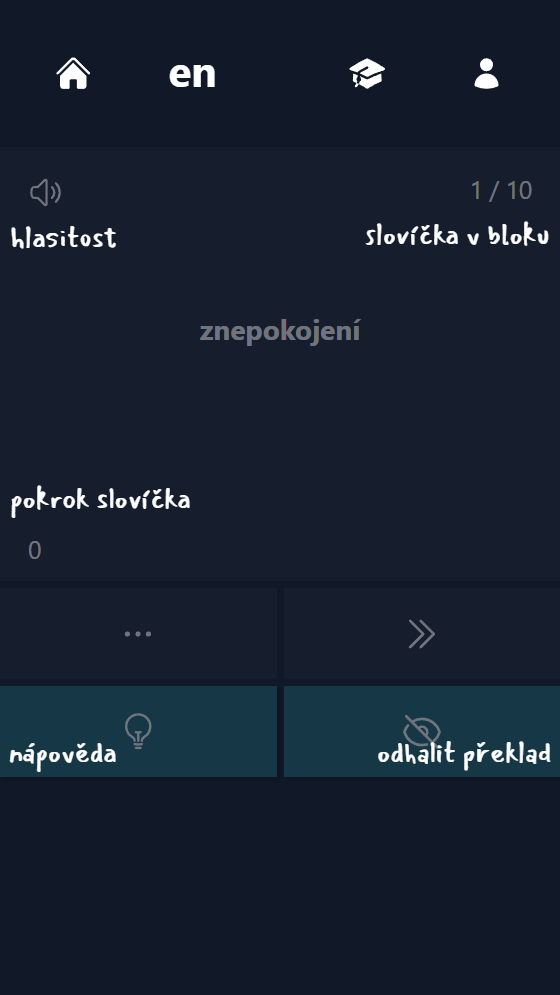
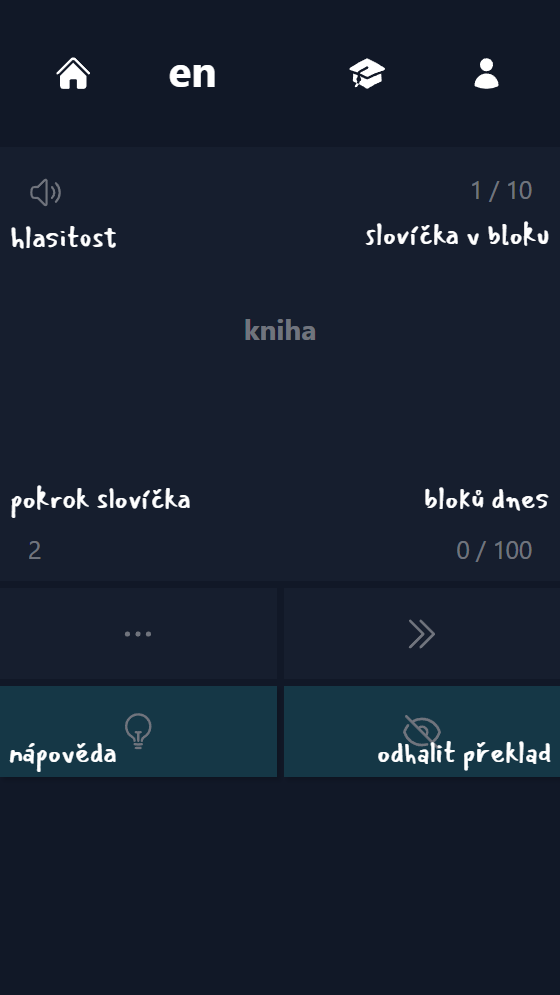
blog update 250719

Changed region(s): [[0.7589, 0.4673, 0.9714, 0.5608], [0.3643, 0.3116, 0.6375, 0.3427], [0.0304, 0.5296, 0.0911, 0.5608]]

diff --git a/my-next-app/src/app/projects/0/page.tsx b/my-next-app/src/app/projects/0/page.tsx
@@ -23,36 +23,12 @@ export default function FlashCardApp() {
           </a>
         </div>
       </Section>
-      <Section title="version v0.1.0">
-        <ul>
-          <h4>Changes</h4>
-          <li>Added multiple languages support (with Spanish vocabulary)</li>
-          <li>Added skip button</li>
-        </ul>
-        <h4>Testing</h4>
-        <p>
-          I have added support for multiple languages for testing purposes.
-          Since I already know English too well, I cannot properly test myself
-          on it. Therefore, I added Spanish to test the app on myself. It works
-          well if the user is disciplined in evaluating his knowledge.
-        </p>
 
-        <h4>Next steps</h4>
-        <ol>
-          <li>
-            I will continue practicing my own english pronunciation (that was
-            original goal anyway), otherwise I will let it rest for a while
-            until personal need for more upgrades arises.
-          </li>
-        </ol>
-        <br />
-      </Section>
       <Section title="Introduction">
         <p>
           I was dissatisfied with existing language learning apps and wanted to
-          create a simple app that focuses only on the features I find useful.
-          Just focus on most important features and ideally lower time to
-          passive knowledge to minimum.
+          create a simple app just for myself. Hopefully it will help me improve
+          my english pronunciation and potentially learn other languages.
         </p>
       </Section>
       <Section title="Main Idea">
@@ -76,13 +52,12 @@ export default function FlashCardApp() {
           Although there is a recommended amount of daily practice, there is no
           strict limit. You can practice for one minute or 10 hours per day.
           This makes it easy to start practicing at any time of the day. Overall
-          daily practice time will quickly start to pile up allowing full
-          immersion in learned language.
+          daily practice time will quickly start to pile up.
         </li>
         <h4>Listening and speaking</h4>
         <li>
           Exclusive emphasis on listening and speaking. Writing slows down
-          practice, and most people do not struggle with it.
+          practice, and it is relative very easy compared to speaking.
         </li>
       </Section>
 
@@ -280,23 +255,57 @@ export default function FlashCardApp() {
       </Section>
       <Section title="What I've learned">
         <section className="group">
-          <p>
-            Technical solution is the easy part. You just need to read the
-            manual and apply it. Developing the desired user experience is the
-            hard part.
-          </p>
-          <br />
-          <h4>Next time I will continue this way:</h4>
           <ol>
-            <li>Start with planning as much as possible on paper.</li>
             <li>
-              Even though planned still work in iteration from &quot;minimum
-              viable product&quot; and get to user testing as fast as possible.
-              Having original plan is great to limit scope, but it will for sure
-              change.
+              The technical solution is the easy part; the real challenge lies
+              in properly defining the desired features.
+            </li>
+            <br />
+            <li>
+              Start with a &quot;minimum viable product.&quot; Even if you have
+              a plan, it will likely change as soon as you begin testing.
+            </li>
+            <br />
+            <li>
+              Feature creep is a real issue. Even now, I feel the urge to add
+              more features. It&#39;s better to sit down and plan carefully on
+              paper, as most ideas often turn out to be unnecessary in practice.
+            </li>
+            <br />
+            <li>
+              Writing clean code saves a lot of time in the long run. It&#39;s
+              worth taking the time to think things through and redo work
+              properly instead of rushing.
             </li>
           </ol>
         </section>
+      </Section>
+      <Section title="version v0.1.0">
+        <ul>
+          <h4>Changes</h4>
+          <li>Added multiple languages support</li>
+          <li>Added skip button</li>
+        </ul>
+        <h4>Testing</h4>
+        <p>
+          I have added support for multiple languages for testing purposes.
+          Since I already know English too well, I cannot properly test myself
+          on it. Therefore, I added Spanish to test the app on myself. It works
+          well if the user is disciplined in evaluating his knowledge.
+        </p>
+      </Section>
+      <Section title="version v0.2.0">
+        <h4>Changes</h4>
+        <ul>
+          <li>UI changes - more information on Practice Card</li>
+          <li>Winstong logger changes</li>
+        </ul>
+        <h4>Missing data</h4>
+        <p>
+          The app just needs to be filled with more data. I already did some
+          english and spanish words, but in the future I will look for
+          cooperation with someone who specialize in specific languages.
+        </p>
       </Section>
     </main>
   );

diff --git a/my-next-app/src/app/projects/1/page.tsx b/my-next-app/src/app/projects/1/page.tsx
@@ -8,30 +8,16 @@ export default function FlashCardApp() {
     <main className="project-page">
       <Section title="Leetcode 75">
         <p>
-          I already did basic data structures and algorithms course. It is quite
-          easy, I just need some practice to properly memorize them. I decided
-          to complete Leetcode 75, which is a curated list of 75 essential
-          problems.
+          I already did basic data structures and algorithms course to know
+          basics of Computer Science. I decided to complete Leetcode 75, which
+          is a curated list of 75 essential problems divided into 22 groups.
         </p>
         <br />
-        <h4></h4>
-        <ul className="project-list">
-          <li className="crossed">
-            <span>Array / String</span>
-            <span>17.07.25</span>
-          </li>
-          <li className="crossed">
-            <span>Two pointers</span>
-            <span>17.07.25</span>
-          </li>
-          <li className="crossed">
-            <span>Sliding Window</span>
-            <span>18.07.25</span>
-          </li>
-          <li className="crossed">
-            <span>Prefix Sum</span>
-            <span>18.07.25</span>
-          </li>
+        <ol className="project-list">
+          <li className="crossed">Array / String</li>
+          <li>Two pointers</li>
+          <li>Sliding Window</li>
+          <li>Prefix Sum</li>
           <li>Hash Map / Set</li>
           <li>Stack</li>
           <li>Queue</li>
@@ -50,8 +36,7 @@ export default function FlashCardApp() {
           <li>Trie</li>
           <li>Intervals</li>
           <li>Monotonic Stack</li>
-        </ul>
-        <br />
+        </ol>
       </Section>
     </main>
   );

diff --git a/my-next-app/src/data/cards.ts b/my-next-app/src/data/cards.ts
@@ -3,21 +3,25 @@ export type CardData = {
   title: string;
   description: string;
   image?: string;
+  date?: string; // Made `date` optional
   link: string; // Made `link` mandatory
 };
 
 export const cards: CardData[] = [
   {
     id: 0,
-    title: "Language App v0.1.0",
+    title: "Language App v0.2.0",
     description:
       "Simple language learning app focused on fast practice. Up to 1000 words or 500 sentences per hour of practice.",
+    date: "2025-07-19",
     link: "/projects/0",
   },
   {
     id: 1,
-    title: "Leetcode 19 / 75",
-    description: "Basic Data Structures and Algorithms practice.",
+    title: "Leetcode 32 / 75",
+    description:
+      "Basic Data Structures and Algorithms practice with Leetcode 75.",
+    date: "2025-07-19",
     link: "/projects/1",
   },
 ];

diff --git a/my-next-app/src/app/projects/1/1.css b/my-next-app/src/app/projects/1/1.css
@@ -1,8 +1,8 @@
 .project-list li {
   font-size: 0.9rem;
-  display: grid;
+  /* display: grid;
   grid-template-columns: 200px 100px;
-  gap: 10px;
+  gap: 10px; */
 }
 
 .crossed {
